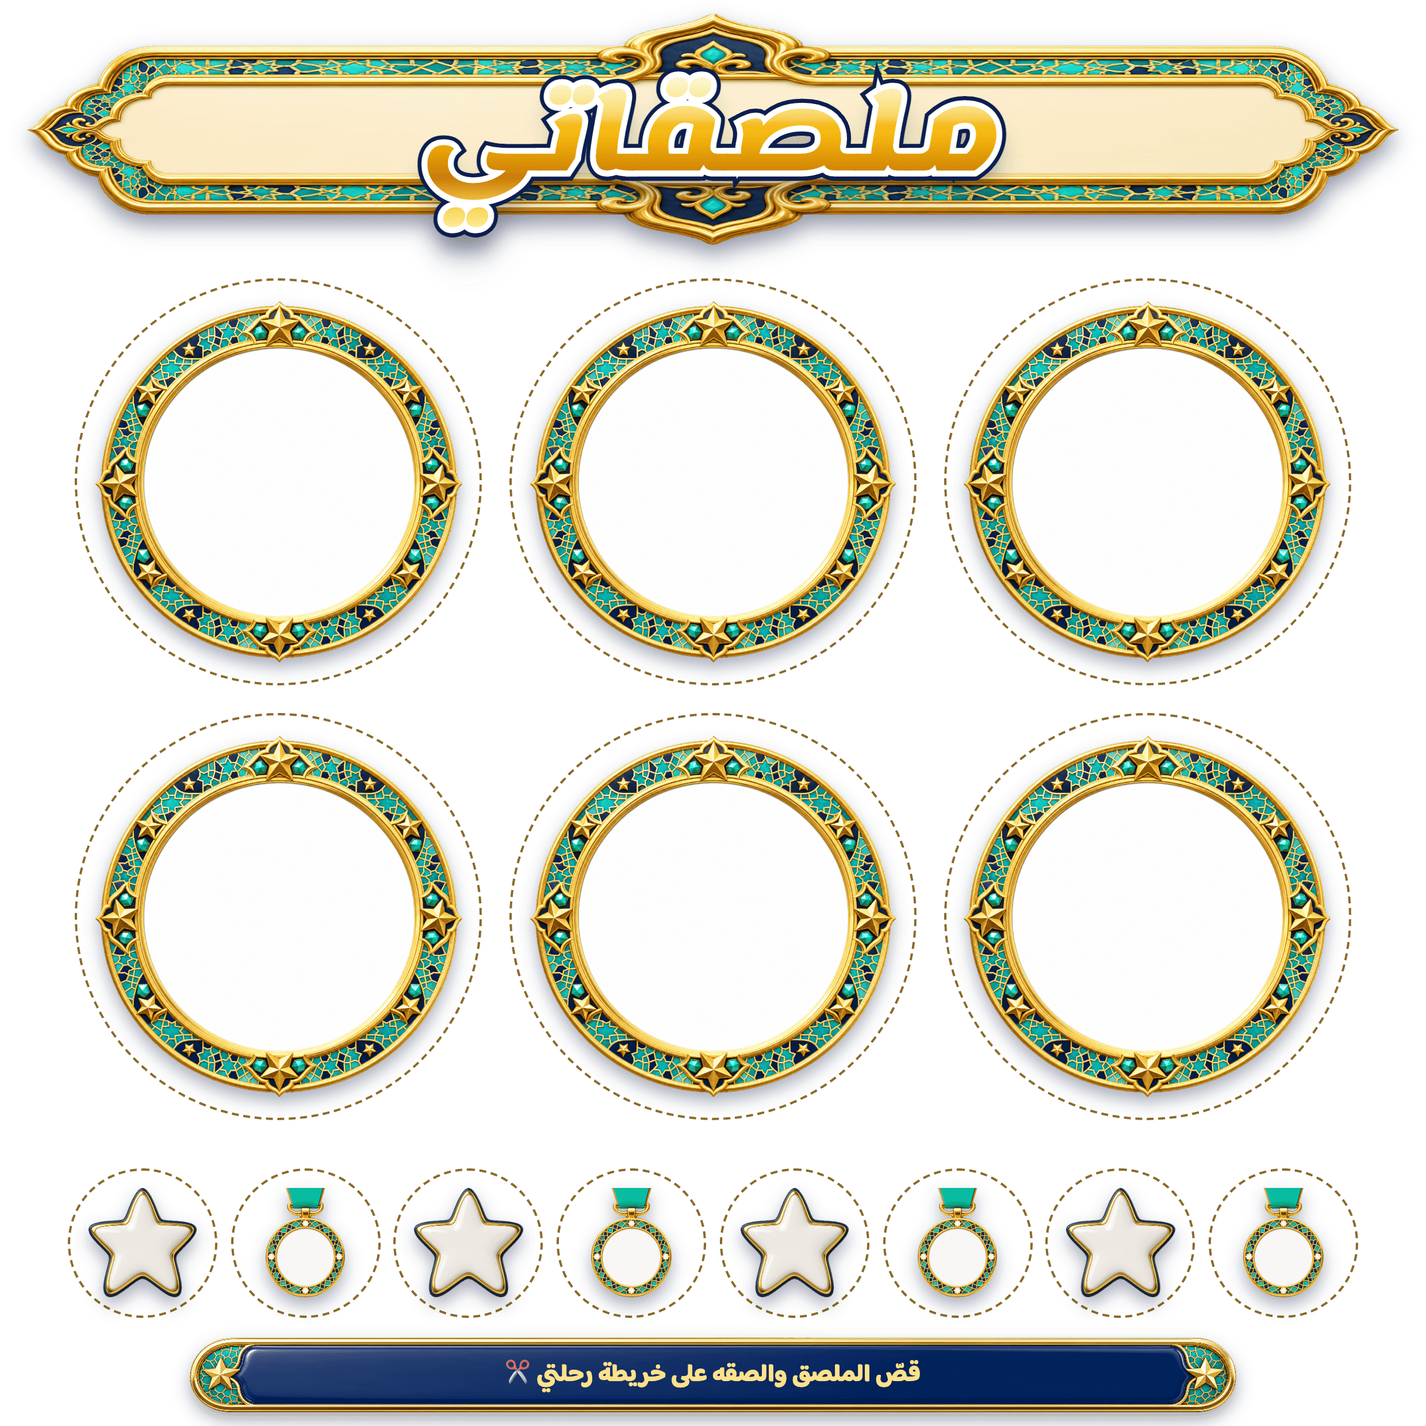
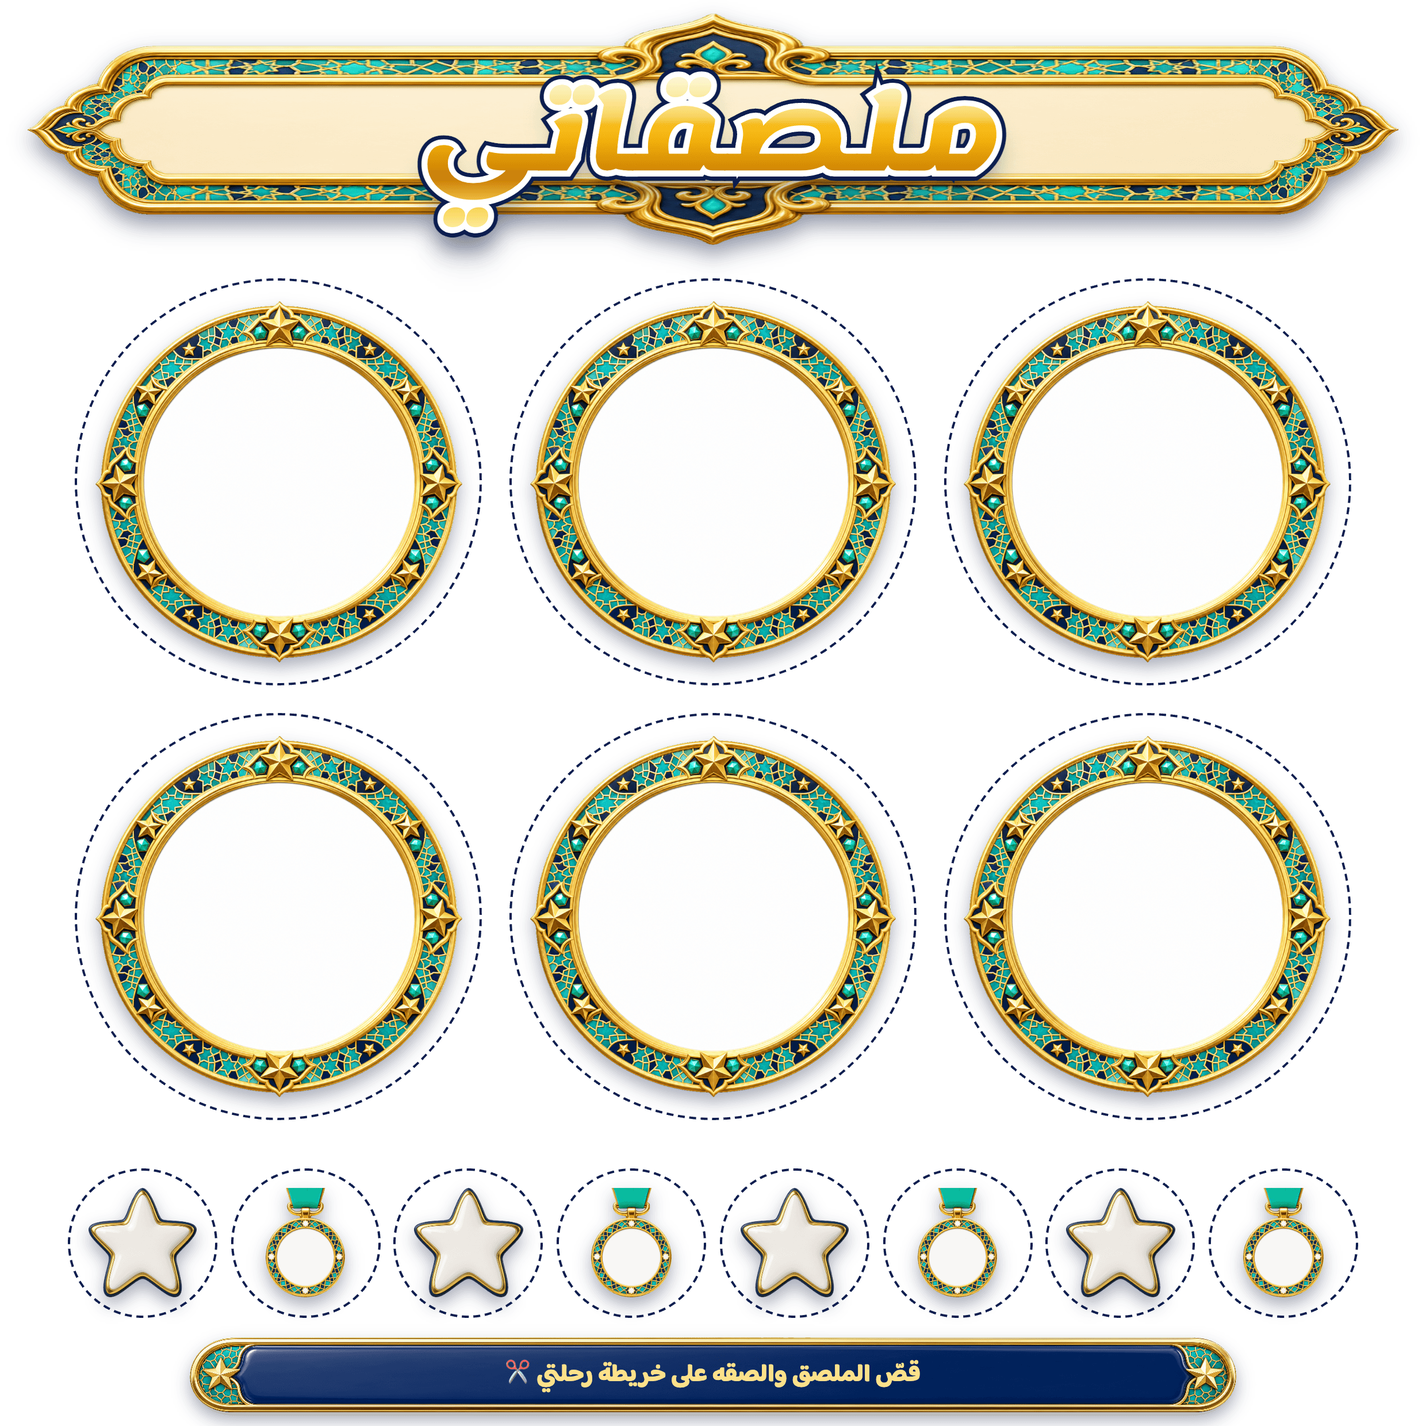
Booklet design A: bold colour backgrounds per page, scenes as small framed pictures

diff --git a/design/nahjali-v1/pages.html b/design/nahjali-v1/pages.html
@@ -15,7 +15,7 @@
   body.all { background: #555; display: flex; flex-wrap: wrap; gap: 8px; padding: 8px; }
   .page { position: relative; width: 210rem; height: 210rem; overflow: hidden; direction: rtl;
     font-family: 'Baloo Bhaijaan 2', sans-serif; color: #0d1d4f; }
-  .page.preview { background: #9ad7e0; }
+  .page.preview:not(.colored) { background: #9ad7e0; }
   .abs { position: absolute; }
 
   /* ── Palette: lapis navy, turquoise, 3-tone gold, warm ivory, coral accent ── */
@@ -73,6 +73,14 @@
   .write-line { border-bottom: .5rem dotted #c79a3a; height: 9rem; }
   .cut { position: absolute; border: .5rem dashed #8a6a2a; border-radius: 50%; }
 
+  /* ── Colourful page backgrounds (design A) with a soft dot pattern ── */
+  .page.colored { background-color: var(--bg); background-image: radial-gradient(var(--dot) .55rem, transparent .65rem); background-size: 7rem 7rem; }
+  /* Small framed picture (shrine, rooms…): gold frame, turquoise inner line, slight tilt */
+  .pic { position: absolute; border-radius: 6rem; padding: 2rem; background: linear-gradient(145deg, #fff3b8, #f5b50d 40%, #c97c00 70%, #ffe27a);
+    box-shadow: 0 1.6rem 2.4rem rgba(9, 20, 60, .45), inset 0 .5rem .4rem rgba(255, 255, 255, .6); }
+  .pic > img { width: 100%; height: 100%; object-fit: cover; border-radius: 4.4rem; border: .9rem solid #12a9b8; display: block; }
+  .sparkle { position: absolute; }
+
   .slot-guide { border: .6rem dashed #e11; background: rgba(255,0,0,.06); display: grid; place-items: center; color: #e11; font-size: 4.5rem; font-weight: 800; text-align: center; }
   .text-guide { border: .5rem dashed #06c; background: rgba(0,100,255,.1); display: grid; place-items: center; color: #06c; font-size: 3.6rem; font-weight: 800; text-align: center; }
   pre { direction: ltr; background: #fff; padding: 12px; font-size: 12px; }
@@ -93,6 +101,12 @@ const medal = (s) => `<img src="assets/medal.png" style="height:${s}rem;filter:d
 const t3 = (text, cls = '') => `<span class="t3 ${cls}" data-text="${text}"><span class="face">${text}</span><span class="gloss" aria-hidden="true">${text}</span></span>`;
 const plaque = (x, y, w, h, text, size, cls = '') => box(x, y, w, h, 'plaque', t3(text, cls), `font-size:${size}rem`);
 
+/** Framed picture of a scene (scenes are small framed pictures, not full backgrounds). */
+const pic = (scene, x, y, w, h, rot = 0) =>
+  `<div class="pic" style="left:${x}rem;top:${y}rem;width:${w}rem;height:${h}rem;transform:rotate(${rot}deg)"><img src="../../templates/nahjali-v1/scenes/${scene}.jpg"></div>`;
+const sparkle = (x, y, s, fill, rot = 0) =>
+  `<svg class="sparkle" style="left:${x}rem;top:${y}rem;width:${s}rem;height:${s}rem;transform:rotate(${rot}deg)" viewBox="0 0 24 24"><path d="M12 1c1 6 5 10 11 11-6 1-10 5-11 11-1-6-5-10-11-11C7 11 11 7 12 1z" fill="${fill}" stroke="#0d1d4f" stroke-width="1.2" stroke-linejoin="round"/></svg>`;
+
 /** Weekly tracker with a 5-of-7 goal (research: weekly goals beat unbroken streaks). */
 function tracker(rows, starSize = rows.length === 1 ? 11 : rows.length === 2 ? 9.6 : 8) {
   const head = `<div></div>` + DAYS.map((d) => `<div class="day">${d}</div>`).join('');
@@ -107,20 +121,25 @@ function tracker(rows, starSize = rows.length === 1 ? 11 : rows.length === 2 ? 9
  * the child big on the left standing in the scene, info card + weekly tracker on the right.
  */
 function habitPage(o) {
-  const cardH = o.cardH ?? 64;
+  const cardH = o.cardH ?? 46;
+  const picH = o.picH ?? 40;
+  const cardY = 39 + (picH ? picH + 4 : 0);
   return {
-    scene: o.scene,
+    bg: o.bg,
+    dot: o.dot,
     slots: [{ pose: o.pose, x: 0, y: 66, w: 104, h: 142 }],
     texts: [{ value: o.bubble, font: 'hand', color: '#0d1d4f', x: 15, y: 42, w: 76, h: 18, wrap: true }],
     html: `
+      ${sparkle(2, 182, 9, '#fff', 12)}${sparkle(94, 194, 7, '#ffd34d', -8)}
       ${plaque(4, 2, 202, 34, o.title, o.titleSize ?? 13)}
       ${img('bubble', 3, 37, 98, 34, 'object-fit:fill')}
-      ${box(106, 38, 100, cardH, 'card', `<div class="inner" style="display:flex;flex-direction:column;gap:2.6rem;justify-content:center">
+      ${picH ? pic(o.scene, 110, 39, 92, picH, 1.5) : ''}
+      ${box(106, cardY, 100, cardH, 'card', `<div class="inner" style="inset:6.5rem 7rem;display:flex;flex-direction:column;gap:2.2rem;justify-content:center">
           <div class="line">${o.line}</div>
           <div class="chips">${(o.chips ?? []).map(([cls, t]) => `<span class="chip ${cls}">${t}</span>`).join('')}</div>
           ${o.quote ? `<div class="quote ${o.quoteSmall ? 'small' : ''}">${o.quote}</div>` : ''}
         </div>`)}
-      ${box(106, 38 + cardH + 3, 100, 210 - 38 - cardH - 3 - 4, 'card', `<div class="inner" style="inset:6.5rem 6.5rem;display:flex;flex-direction:column;justify-content:center">${tracker(o.rows ?? [''])}</div>`)}
+      ${box(106, cardY + cardH + 3, 100, 210 - cardY - cardH - 3 - 4, 'card', `<div class="inner" style="inset:6.5rem 6.5rem;display:flex;flex-direction:column;justify-content:center">${tracker(o.rows ?? [''])}</div>`)}
     `,
   };
 }
@@ -182,26 +201,37 @@ function journeyMap() {
   return road + stones;
 }
 
+// Page colours (design A): one bold colour per page, soft dots
+const C = {
+  purple: ['#7B5CFF', 'rgba(255,255,255,.14)'], yellow: ['#FFD23F', 'rgba(0,0,0,.08)'], teal: ['#2EC4B6', 'rgba(0,0,0,.08)'],
+  orange: ['#FF8A3D', 'rgba(0,0,0,.08)'], pink: ['#FF4D8D', 'rgba(0,0,0,.08)'], navy: ['#25206B', 'rgba(255,255,255,.12)'],
+  lime: ['#C6F432', 'rgba(0,0,0,.08)'], sky: ['#5AB8F0', 'rgba(255,255,255,.18)'],
+};
+const colors = (k) => ({ bg: C[k][0], dot: C[k][1] });
+
 const PAGES = [
   // 1 — cover
   {
-    scene: 'shrine-day',
-    slots: [{ pose: 'happy', x: 50, y: 98, w: 110, h: 112 }],
+    ...colors('purple'),
+    slots: [{ pose: 'happy', x: 56, y: 104, w: 98, h: 104 }],
     texts: [{ value: 'كتيب {name}', font: 'title', color: '#0d1d4f', effect: 'epic', x: 8, y: 50, w: 194, h: 32 }],
     html: `
+      ${sparkle(6, 10, 14, '#fff', 10)}${sparkle(184, 14, 12, '#FF4D8D', -8)}${sparkle(190, 186, 10, '#fff')}${sparkle(8, 192, 9, '#C6F432')}
+      ${pic('shrine-day', 4, 112, 52, 52, -7)}${pic('shrine-night', 154, 116, 52, 52, 7)}
       <img class="img" src="../../public/brand/logo.png" style="left:84rem;top:3rem;width:42rem">
       ${box(38, 82, 134, 16, 'plate', t3('رحلتي مع العادات الطيبة', 'gold'), 'font-size:6.6rem;padding-top:1rem')}
     `,
   },
   // 2 — this is me
   {
-    scene: 'this-is-me',
+    ...colors('orange'),
     slots: [{ pose: 'happy', x: 14, y: 62, w: 76, h: 108, front: true }],
     texts: [
       { value: '{name}', font: 'title', color: '#ffd34d', effect: 'gold', x: 20, y: 181, w: 66, h: 11 },
       { value: '{message}', font: 'hand', color: '#0d1d4f', x: 112, y: 140, w: 84, h: 54, wrap: true },
     ],
     html: `
+      ${sparkle(96, 40, 8, '#fff', 15)}${sparkle(2, 196, 9, '#FFD23F')}
       ${plaque(4, 2, 202, 34, 'هذا أنا', 15)}
       ${img('arch', 6, 38, 90, 138, 'object-fit:fill')}
       ${box(8, 178, 86, 17, 'plate', '')}
@@ -214,7 +244,7 @@ const PAGES = [
         </div>`)}
     `,
   },
-  // 3 — journey map
+  // 3 — journey map (the map illustration stays full-page: it is the content)
   {
     scene: 'journey-map',
     slots: [{ pose: 'happy', x: 164, y: 150, w: 32, h: 46 }],
@@ -227,45 +257,45 @@ const PAGES = [
   },
   // 4 — prayers
   habitPage({
-    scene: 'prayer-room', pose: 'praying', title: 'صلاتي نوري', bubble: 'يا {name}، حان وقت الصلاة!',
+    ...colors('teal'), scene: 'prayer-room', pose: 'praying', title: 'صلاتي نوري', bubble: 'يا {name}، حان وقت الصلاة!',
     line: 'أُصلّي صلاتي في وقتها', chips: [['gold', 'متى؟ أول ما يُؤذّن']],
-    quote: quran(QUOTE_PRAYER), cardH: 66, rows: ['الفجر', 'الظهرين', 'العشاءين'],
+    quote: quran(QUOTE_PRAYER), picH: 34, cardH: 54, rows: ['الفجر', 'الظهرين', 'العشاءين'],
   }),
   // 5 — Quran
   habitPage({
-    scene: 'quran-nook', pose: 'quran', title: 'أقرأ القرآن كل يوم', titleSize: 11.5, bubble: 'يا {name}، يلا نقرأ آية!',
-    line: 'كلام الله نورٌ لقلبي', chips: [['teal', 'ولو آيةً واحدة'], ['gold', 'متى؟ بعد صلاة الفجر']], cardH: 60,
+    ...colors('yellow'), scene: 'quran-nook', pose: 'quran', title: 'أقرأ القرآن كل يوم', titleSize: 11.5, bubble: 'يا {name}، يلا نقرأ آية!',
+    line: 'كلام الله نورٌ لقلبي', chips: [['teal', 'ولو آيةً واحدة'], ['gold', 'متى؟ بعد صلاة الفجر']], picH: 46, cardH: 44,
   }),
   // 6 — morning
   habitPage({
-    scene: 'bedroom-morning', pose: 'morning', title: 'صباحي مرتّب', bubble: 'صباح الخير يا {name}!',
-    line: 'أفرّش أسناني وأرتّب سريري بنفسي', chips: [['gold', 'متى؟ أول ما أصحى']], cardH: 60, rows: ['أسناني', 'سريري'],
+    ...colors('orange'), scene: 'bedroom-morning', pose: 'morning', title: 'صباحي مرتّب', bubble: 'صباح الخير يا {name}!',
+    line: 'أفرّش أسناني وأرتّب سريري بنفسي', chips: [['gold', 'متى؟ أول ما أصحى']], picH: 40, cardH: 44, rows: ['أسناني', 'سريري'],
   }),
   // 7 — sleep early
   habitPage({
-    scene: 'bedroom-night', pose: 'sleeping', title: 'أنام مبكرًا وأصحو نشيطًا', titleSize: 9.5, bubble: 'نومًا هنيئًا يا {name}!',
-    line: 'أنام مبكرًا لأصحو للفجر نشيطًا', chips: [['gold', 'متى؟ بعد صلاة العشاء']], cardH: 60, rows: ['نمتُ مبكرًا', 'صحوتُ مبكرًا'],
+    ...colors('navy'), scene: 'bedroom-night', pose: 'sleeping', title: 'أنام مبكرًا وأصحو نشيطًا', titleSize: 9.5, bubble: 'نومًا هنيئًا يا {name}!',
+    line: 'أنام مبكرًا لأصحو للفجر نشيطًا', chips: [['gold', 'متى؟ بعد صلاة العشاء']], picH: 40, cardH: 44, rows: ['نمتُ مبكرًا', 'صحوتُ مبكرًا'],
   }),
-  // 8 — greeting Imam al-Mahdi
+  // 8 — greeting Imam al-Mahdi (long hadith: no picture, more room for the text)
   habitPage({
-    scene: 'shrine-dawn', pose: 'salam', title: 'السلامُ عليكَ يا صاحبَ الزمان', titleSize: 8.4, bubble: 'يا {name}، لنُسلّم على إمامنا',
+    ...colors('purple'), scene: 'shrine-dawn', pose: 'salam', title: 'السلامُ عليكَ يا صاحبَ الزمان', titleSize: 8.4, bubble: 'يا {name}، لنُسلّم على إمامنا',
     line: 'أُسلّم على إمام زماني كل يوم، وأدعو بتعجيل فرجه', chips: [['gold', 'متى؟ كل صباح']],
-    quote: HADITH_MAHDI, quoteSmall: true, cardH: 112,
+    quote: HADITH_MAHDI, quoteSmall: true, picH: 0, cardH: 112,
   }),
   // 9 — night prayer
   habitPage({
-    scene: 'prayer-room-night', pose: 'praying', title: 'صلاة الليل', bubble: 'يا {name}، ركعة في الليل نور!',
+    ...colors('navy'), scene: 'prayer-room-night', pose: 'praying', title: 'صلاة الليل', bubble: 'يا {name}، ركعة في الليل نور!',
     line: 'في هدوء الليل أصلّي لله', chips: [['teal', 'ولو ركعةً واحدة'], ['gold', 'متى؟ قبل الفجر']],
-    quote: quran(QUOTE_NIGHT), cardH: 76,
+    quote: quran(QUOTE_NIGHT), picH: 34, cardH: 62,
   }),
   // 10 — studying
   habitPage({
-    scene: 'study-desk', pose: 'studying', title: 'أذاكر دروسي', bubble: 'يا {name}، يلا نذاكر!',
-    line: 'العلم نورٌ يكبر معي', chips: [['teal', 'ولو ١٠ دقائق'], ['gold', 'متى؟ بعد الغداء']], cardH: 60,
+    ...colors('pink'), scene: 'study-desk', pose: 'studying', title: 'أذاكر دروسي', bubble: 'يا {name}، يلا نذاكر!',
+    line: 'العلم نورٌ يكبر معي', chips: [['teal', 'ولو ١٠ دقائق'], ['gold', 'متى؟ بعد الغداء']], picH: 46, cardH: 44,
   }),
   // 11 — daily tasks
   {
-    scene: 'pattern',
+    ...colors('lime'),
     slots: [{ pose: 'happy', x: 6, y: 0, w: 38, h: 44 }],
     texts: [],
     html: `
@@ -279,10 +309,12 @@ const PAGES = [
   },
   // 12 — weekly tasks
   {
-    scene: 'pattern',
+    ...colors('sky'),
     slots: [{ pose: 'quran', x: 2, y: 92, w: 72, h: 116 }],
     texts: [],
     html: `
+      ${sparkle(10, 50, 10, '#fff', 12)}${sparkle(50, 70, 7, '#FFD23F')}
+      ${pic('shrine-dawn', 8, 42, 62, 46, -4)}
       ${plaque(4, 2, 202, 34, 'مهامي الأسبوعية', 13)}
       ${box(76, 40, 130, 166, 'card', `<div class="inner" style="inset:7rem 7rem">
         <table class="grid"><thead><tr><th></th>${['الأسبوع ١', 'الأسبوع ٢', 'الأسبوع ٣', 'الأسبوع ٤'].map((d) => `<th>${d}</th>`).join('')}</tr></thead>
@@ -298,23 +330,24 @@ const PAGES = [
     const rings = poses.map((_, i) => ({ x: 14 + (i % 3) * 64, y: 44 + Math.floor(i / 3) * 64 }));
     const small = [0, 1, 2, 3, 4, 5, 6, 7].map((i) => ({ x: 12 + i * 24, y: 174, kind: i % 2 ? 'medal' : 'star' }));
     return {
-      scene: 'pattern',
+      ...colors('teal'),
       slots: rings.map((r, i) => ({ pose: poses[i], x: r.x + 14, y: r.y + 8, w: 26, h: 38, front: true })),
       texts: [],
       html: `
         ${plaque(4, 2, 202, 34, 'ملصقاتي', 15)}
-        ${rings.map((r) => `<div class="cut" style="left:${r.x - 3}rem;top:${r.y - 3}rem;width:60rem;height:60rem"></div>${img('ring', r.x, r.y, 54, 54)}`).join('')}
-        ${small.map((s) => `<div class="cut" style="left:${s.x - 2}rem;top:${s.y - 2}rem;width:22rem;height:22rem"></div>${img(s.kind, s.x + 1, s.y + 1, 16, 16)}`).join('')}
+        ${rings.map((r) => `<div class="cut" style="left:${r.x - 3}rem;top:${r.y - 3}rem;width:60rem;height:60rem;border-color:#0d1d4f"></div>${img('ring', r.x, r.y, 54, 54)}`).join('')}
+        ${small.map((s) => `<div class="cut" style="left:${s.x - 2}rem;top:${s.y - 2}rem;width:22rem;height:22rem;border-color:#0d1d4f"></div>${img(s.kind, s.x + 1, s.y + 1, 16, 16)}`).join('')}
         ${box(28, 197, 154, 11, 'plate', `<span style="font-size:3.6rem;font-weight:800;color:#ffe08a">قصّ الملصق والصقه على خريطة رحلتي ✂</span>`)}
       `,
     };
   })(),
   // 14 — parents' corner
   {
-    scene: 'pattern',
+    ...colors('pink'),
     slots: [],
     texts: [],
     html: `
+      ${sparkle(4, 38, 9, '#fff', 10)}${sparkle(196, 196, 9, '#FFD23F')}
       ${plaque(4, 2, 202, 34, 'ركن الأهل', 15)}
       ${box(8, 40, 194, 164, 'card', `<div class="inner" style="inset:9rem 10rem;display:flex;flex-direction:column;justify-content:space-around">
         ${TIPS.map((t) => `<div style="display:flex;align-items:center;gap:4rem">${star(10)}<span class="line" style="font-size:6.2rem">${t}</span></div>`).join('')}
@@ -323,11 +356,12 @@ const PAGES = [
   },
   // 15 — certificate
   {
-    scene: 'pattern',
+    ...colors('lime'),
     slots: [{ pose: 'happy', x: 8, y: 84, w: 82, h: 120 }],
     texts: [{ value: '{name}', font: 'title', color: '#0d1d4f', effect: 'epic', x: 100, y: 66, w: 96, h: 24 }],
     html: `
       <div class="abs" style="inset:4rem;border:2.6rem solid #e9a50c;border-radius:8rem;box-shadow:inset 0 0 0 1.2rem #fff,0 0 0 1.2rem #fff,inset 0 0 0 2.2rem #12a9b8"></div>
+      ${sparkle(10, 52, 10, '#fff', 10)}${sparkle(70, 60, 8, '#FF4D8D')}
       ${plaque(20, 9, 170, 36, 'شهادة تقدير', 16)}
       ${box(92, 46, 112, 154, 'card', `<div class="inner" style="display:flex;flex-direction:column;align-items:center;gap:3rem;text-align:center">
           <div class="line" style="font-size:6.2rem">تُمنح هذه الشهادة إلى</div>
@@ -343,13 +377,15 @@ const PAGES = [
   },
   // 16 — back cover
   {
-    scene: 'shrine-night',
+    ...colors('navy'),
     slots: [],
     texts: [],
     html: `
-      <img class="img" src="../../public/brand/logo.png" style="left:72rem;top:44rem;width:66rem">
-      ${plaque(30, 128, 150, 30, 'كتيب العادات الطيبة', 9)}
-      <div class="abs" style="left:20rem;top:162rem;width:170rem;text-align:center;font-size:5rem;font-weight:800;color:#fff;text-shadow:0 .6rem 2rem rgba(0,0,0,.7)">صُنع بحبّ لأطفالنا · على نهج أمير المؤمنين عليه السلام</div>
+      ${sparkle(10, 12, 12, '#FFD23F', 10)}${sparkle(186, 20, 10, '#fff')}${sparkle(20, 186, 9, '#fff')}${sparkle(182, 180, 12, '#FFD23F', -10)}
+      ${pic('shrine-night', 30, 16, 150, 100, -2)}
+      <img class="img" src="../../public/brand/logo.png" style="left:84rem;top:112rem;width:42rem">
+      ${plaque(30, 160, 150, 26, 'كتيب العادات الطيبة', 8.5)}
+      <div class="abs" style="left:20rem;top:190rem;width:170rem;text-align:center;font-size:4.4rem;font-weight:800;color:#fff">صُنع بحبّ لأطفالنا · على نهج أمير المؤمنين عليه السلام</div>
     `,
   },
 ];
@@ -360,30 +396,39 @@ const TEMPLATE = {
   page_size_mm: { width: 210, height: 210 },
   poses: [...new Set(PAGES.flatMap((p) => p.slots.map((s) => s.pose)))],
   scenes: [...new Set(PAGES.map((p) => p.scene).filter(Boolean))],
-  pages: PAGES.map((p, i) => ({
-    overlay: `overlays/page-${String(i + 1).padStart(2, '0')}.png`,
-    scene: p.scene ?? null,
-    slots: p.slots.map((s) => ({ pose: s.pose, x_mm: s.x, y_mm: s.y, width_mm: s.w, height_mm: s.h, front: s.front ?? false })),
-    texts: p.texts.map((t) => ({ value: t.value, font: t.font, color: t.color, stroke: t.stroke ?? null, effect: t.effect ?? null, wrap: t.wrap ?? false, x_mm: t.x, y_mm: t.y, width_mm: t.w, height_mm: t.h })),
-  })),
+  pages: PAGES.map((p, i) => {
+    const n = String(i + 1).padStart(2, '0');
+    return {
+      overlay: `overlays/page-${n}.png`,
+      // Coloured pages get a rendered background image (behind the child); the map keeps its full illustration
+      scene: p.bg ? `bg-${n}` : p.scene ?? null,
+      slots: p.slots.map((s) => ({ pose: s.pose, x_mm: s.x, y_mm: s.y, width_mm: s.w, height_mm: s.h, front: s.front ?? false })),
+      texts: p.texts.map((t) => ({ value: t.value, font: t.font, color: t.color, stroke: t.stroke ?? null, effect: t.effect ?? null, wrap: t.wrap ?? false, x_mm: t.x, y_mm: t.y, width_mm: t.w, height_mm: t.h })),
+    };
+  }),
 };
 
-function renderPage(p, preview) {
-  const scene = preview && p.scene ? `<img class="abs" src="../../templates/nahjali-v1/scenes/${p.scene}.jpg" style="left:0;top:0;width:210rem;height:210rem">` : '';
-  const guides = preview
+/** mode: "overlay" (transparent content), "bg" (only the coloured background), "preview" (everything + guides). */
+function renderPage(p, mode) {
+  const colored = p.bg && mode !== 'overlay' ? 'colored' : '';
+  const style = p.bg ? `--bg:${p.bg};--dot:${p.dot}` : '';
+  if (mode === 'bg') return `<div class="page ${colored}" style="${style}"></div>`;
+  const scene = mode === 'preview' && p.scene && !p.bg ? `<img class="abs" src="../../templates/nahjali-v1/scenes/${p.scene}.jpg" style="left:0;top:0;width:210rem;height:210rem">` : '';
+  const guides = mode === 'preview'
     ? p.slots.map((s) => box(s.x, s.y, s.w, s.h, 'slot-guide', `الطفل<br>${s.pose}`)).join('') +
       p.texts.map((t) => box(t.x, t.y, t.w, t.h, 'text-guide', t.value)).join('')
     : '';
-  return `<div class="page ${preview ? 'preview' : ''}">${scene}${p.html}${guides}</div>`;
+  return `<div class="page ${colored} ${mode === 'preview' ? 'preview' : ''}" style="${style}">${scene}${p.html}${guides}</div>`;
 }
 
 if (P.has('json')) {
   document.body.innerHTML = `<pre id="json">${JSON.stringify(TEMPLATE, null, 2)}</pre>`;
 } else if (P.has('page')) {
-  document.body.innerHTML = renderPage(PAGES[Number(P.get('page')) - 1], P.has('preview'));
+  const mode = P.get('layer') === 'bg' ? 'bg' : P.has('preview') ? 'preview' : 'overlay';
+  document.body.innerHTML = renderPage(PAGES[Number(P.get('page')) - 1], mode);
 } else {
   document.body.className = 'all';
-  document.body.innerHTML = PAGES.map((p) => renderPage(p, true)).join('');
+  document.body.innerHTML = PAGES.map((p) => renderPage(p, 'preview')).join('');
 }
 </script>
 </body>
